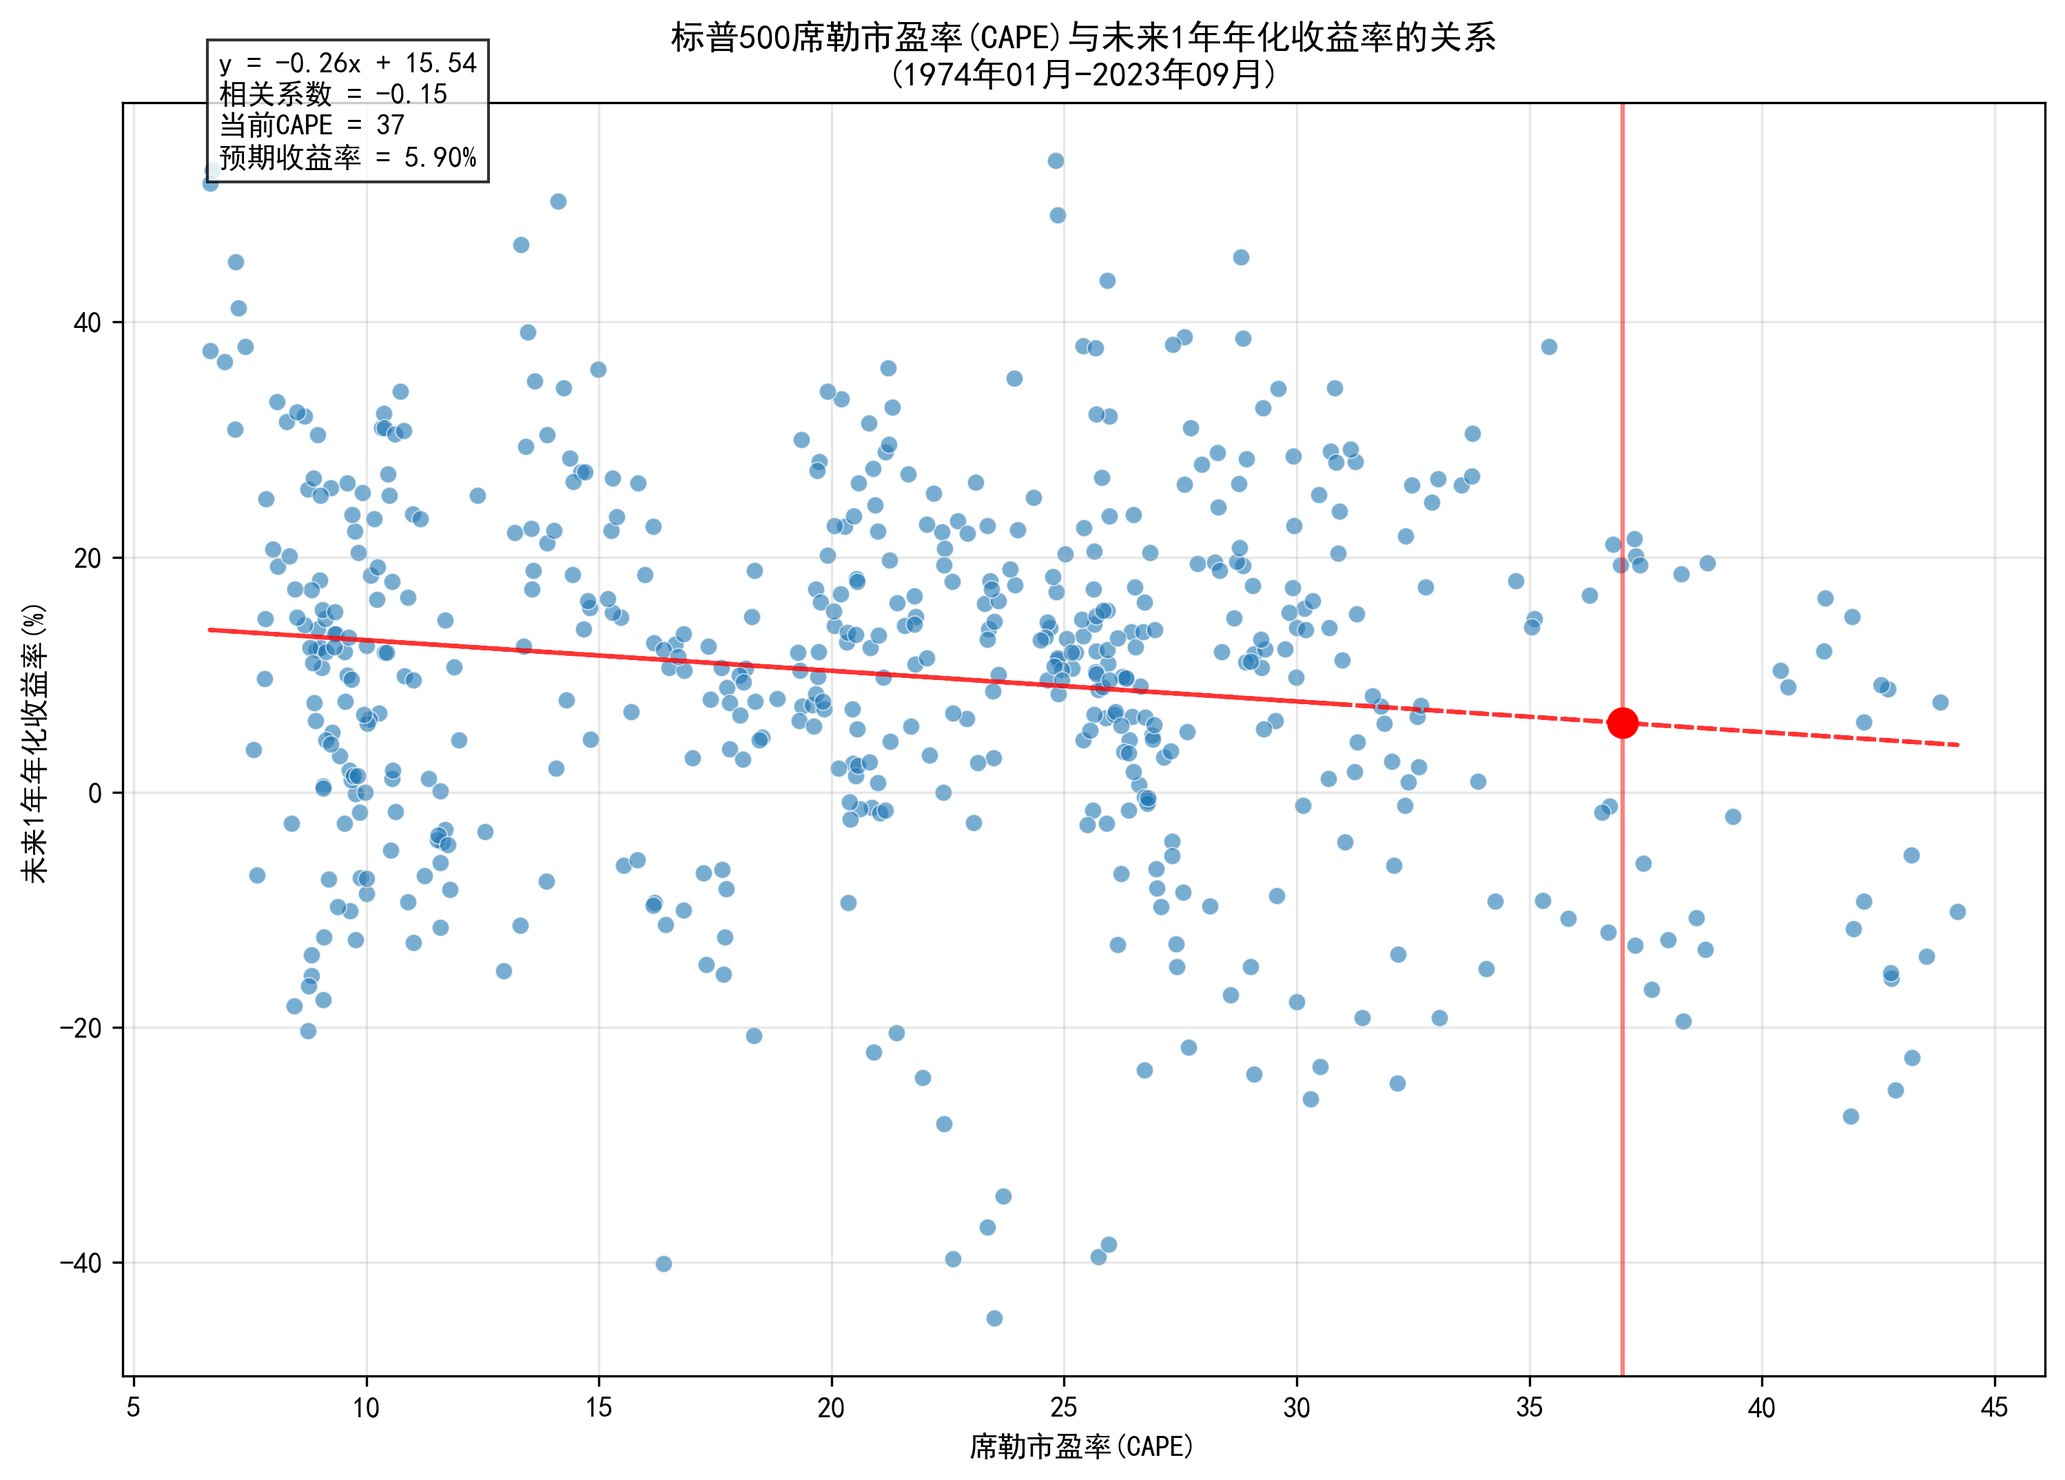
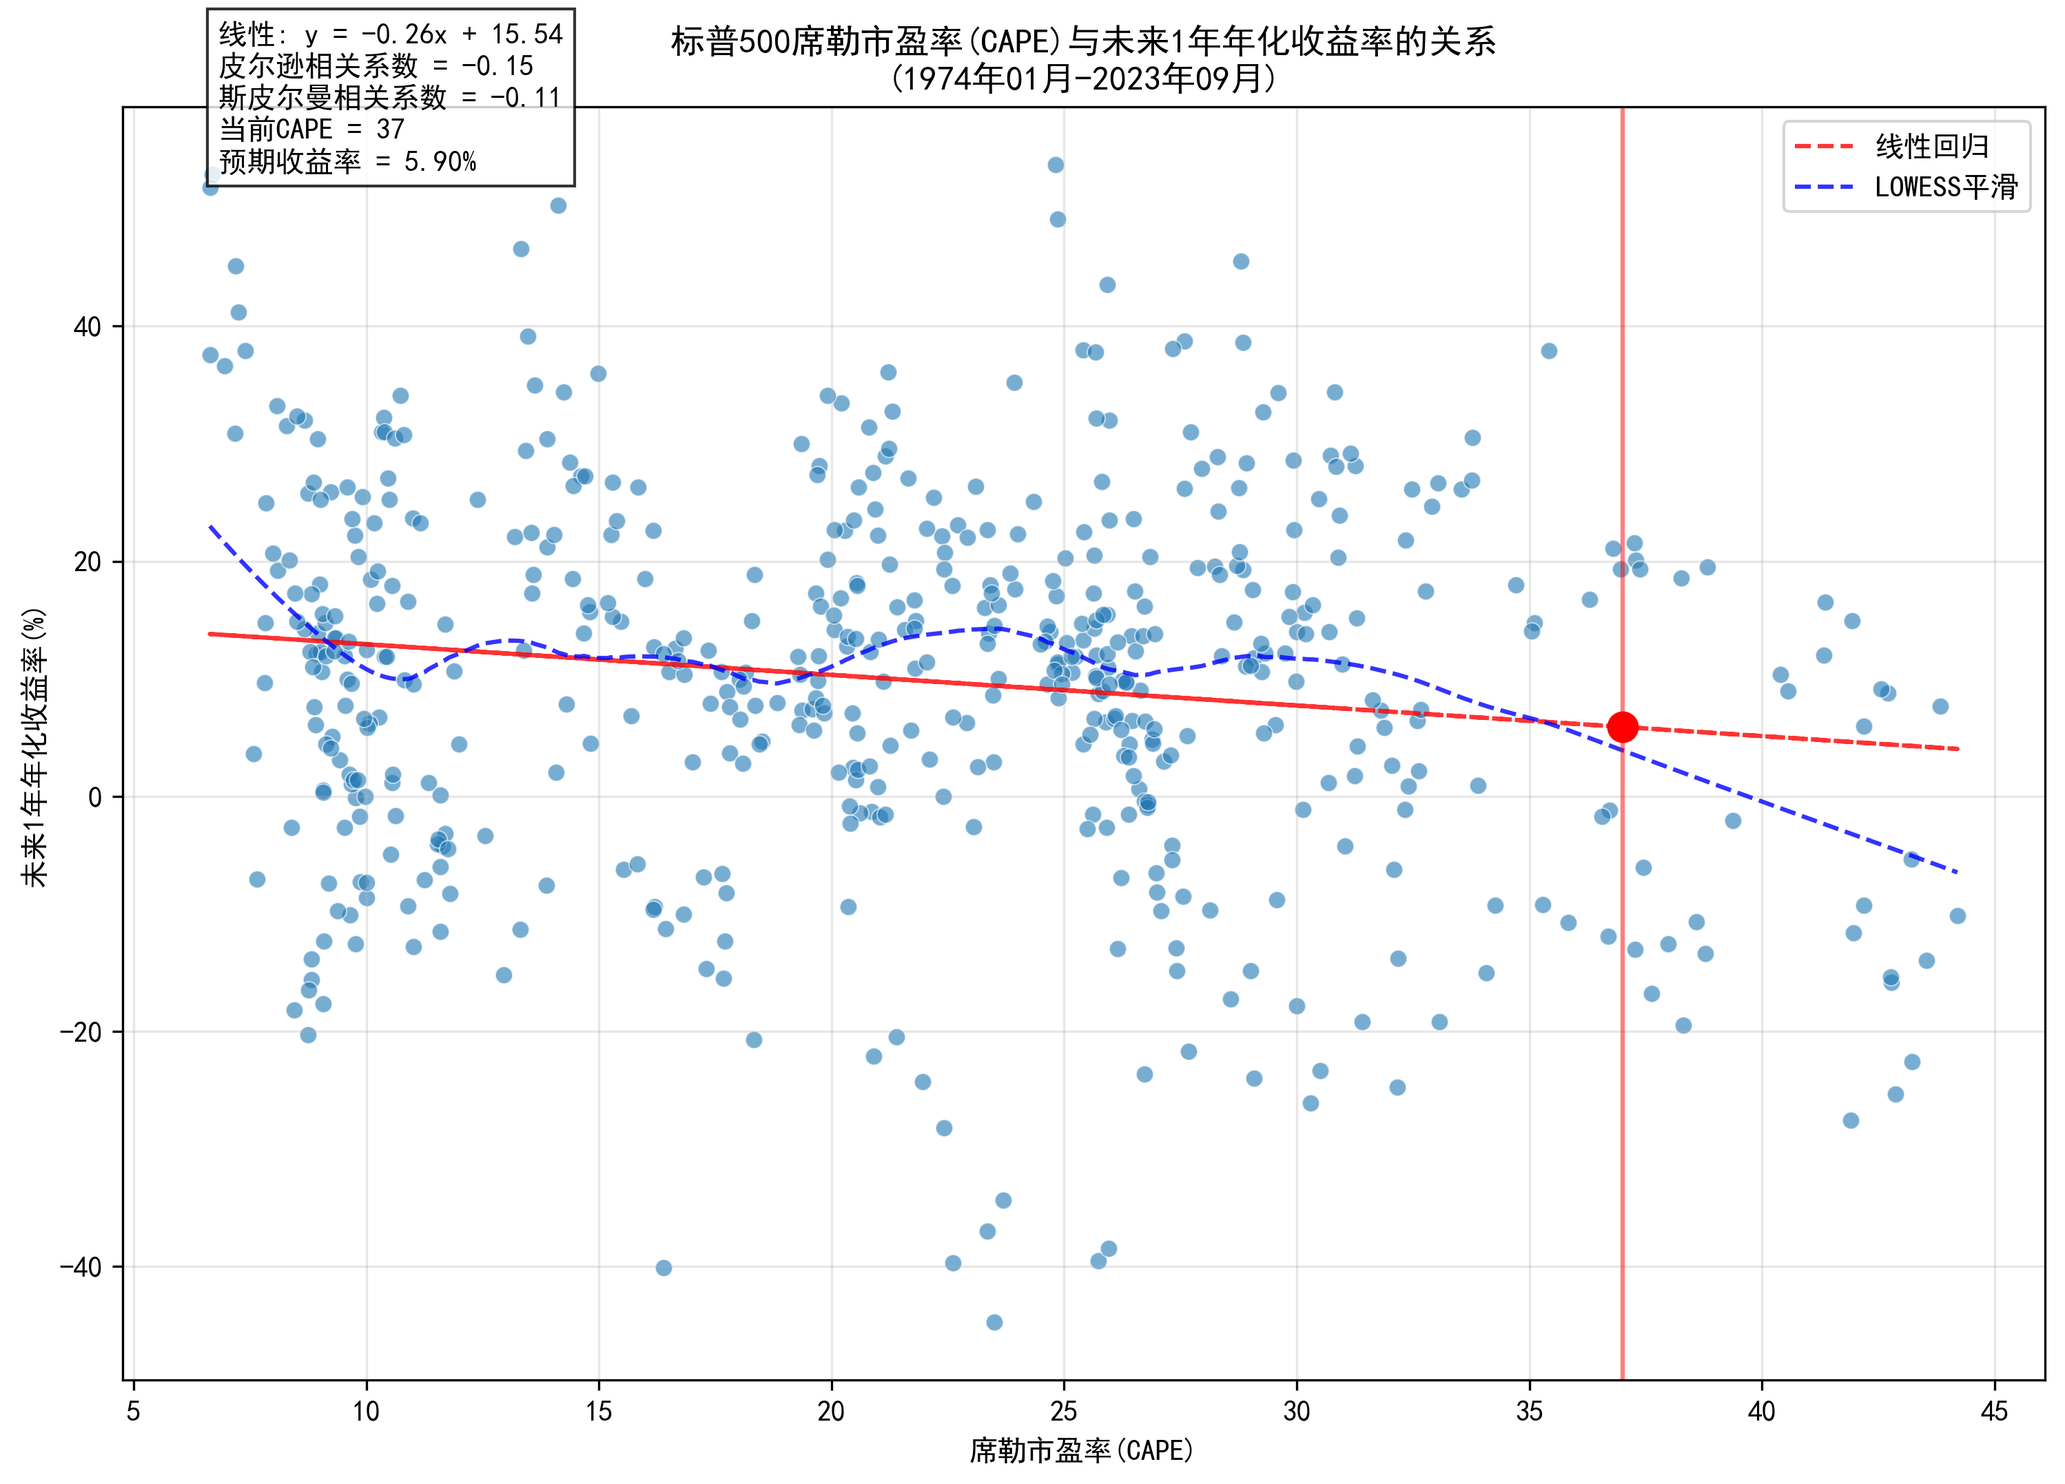
Update other models

diff --git a/sp500_cape_analysis/sp500_cape_returns.py b/sp500_cape_analysis/sp500_cape_returns.py
@@ -5,6 +5,7 @@ import matplotlib.pyplot as plt
 import seaborn as sns
 import requests
 import scipy.stats as stats
+from statsmodels.nonparametric.smoothers_lowess import lowess
 import os
 
 def get_sp500_data():
@@ -82,17 +83,23 @@ def calculate_returns(prices, years=10):
     return returns * 100  # 转换为百分比
 
 def create_scatter_plot(combined_data, years, current_cape=37):
-    """创建散点图和趋势线"""
+    """创建散点图和拟合线"""
     plt.figure(figsize=(12, 8))
     sns.scatterplot(data=combined_data, x='CAPE', y=f'{years}Y_Returns', alpha=0.6)
     
-    # 添加趋势线
+    # 计算皮尔逊和斯皮尔曼相关系数
+    pearson_corr = combined_data['CAPE'].corr(combined_data[f'{years}Y_Returns'])
+    spearman_corr = combined_data['CAPE'].corr(combined_data[f'{years}Y_Returns'], method='spearman')
+    
+    # 线性回归
     z = np.polyfit(combined_data['CAPE'], combined_data[f'{years}Y_Returns'], 1)
     p = np.poly1d(z)
-    plt.plot(combined_data['CAPE'], p(combined_data['CAPE']), "r--", alpha=0.8)
+    plt.plot(combined_data['CAPE'], p(combined_data['CAPE']), "r--", alpha=0.8, label='线性回归')
     
-    # 计算相关系数
-    correlation = combined_data['CAPE'].corr(combined_data[f'{years}Y_Returns'])
+    # LOWESS平滑
+    lowess_result = lowess(combined_data[f'{years}Y_Returns'], combined_data['CAPE'], 
+                          frac=0.3, it=3, return_sorted=True)
+    plt.plot(lowess_result[:, 0], lowess_result[:, 1], 'b--', alpha=0.8, label='LOWESS平滑')
     
     # 添加当前CAPE的竖线
     plt.axvline(x=current_cape, color='r', linestyle='-', alpha=0.5)
@@ -100,9 +107,10 @@ def create_scatter_plot(combined_data, years, current_cape=37):
     plt.plot([current_cape], [predicted_return], 'ro', markersize=10)
     
     # 在图表上添加信息
-    equation = f'y = {z[0]:.2f}x + {z[1]:.2f}'
-    correlation_text = f'相关系数 = {correlation:.2f}'
+    equation = f'线性: y = {z[0]:.2f}x + {z[1]:.2f}'
+    correlation_text = f'皮尔逊相关系数 = {pearson_corr:.2f}\n斯皮尔曼相关系数 = {spearman_corr:.2f}'
     current_cape_text = f'当前CAPE = {current_cape}\n预期收益率 = {predicted_return:.2f}%'
+    
     plt.text(0.05, 0.95, equation + '\n' + correlation_text + '\n' + current_cape_text,
              transform=plt.gca().transAxes, 
              bbox=dict(facecolor='white', alpha=0.8))
@@ -113,6 +121,9 @@ def create_scatter_plot(combined_data, years, current_cape=37):
     plt.xlabel('席勒市盈率(CAPE)')
     plt.ylabel(f'未来{years}年年化收益率(%)')
     
+    # 添加图例
+    plt.legend()
+    
     # 添加网格
     plt.grid(True, alpha=0.3)
     
@@ -120,7 +131,11 @@ def create_scatter_plot(combined_data, years, current_cape=37):
     plt.savefig(f'sp500_cape_returns_{years}y.png', dpi=300, bbox_inches='tight')
     plt.close()
     
-    return correlation, z
+    return {
+        'pearson': pearson_corr,
+        'spearman': spearman_corr,
+        'linear': z
+    }
 
 def generate_report_data(combined_data_by_period, correlations, z_values):
     """生成报告所需的所有数据"""
@@ -133,13 +148,18 @@ def generate_report_data(combined_data_by_period, correlations, z_values):
     # 计算各期限的R²值和预期收益率
     r_squared_values = {}
     predicted_returns = {}
+    
     for years in [1, 3, 5, 10, 20, 30]:
         period_data = combined_data_by_period[years]
-        y_pred = np.polyval(z_values[years], period_data['CAPE'])
+        
+        # 线性回归的R²
+        y_pred = np.polyval(z_values[years]['linear'], period_data['CAPE'])
         y_actual = period_data[f'{years}Y_Returns']
         r_squared = 1 - (np.sum((y_actual - y_pred) ** 2) / np.sum((y_actual - y_actual.mean()) ** 2))
         r_squared_values[years] = r_squared
-        predicted_returns[years] = z_values[years][0] * current_cape + z_values[years][1]
+        
+        # 计算预期收益率
+        predicted_returns[years] = np.polyval(z_values[years]['linear'], current_cape)
     
     # 计算CAPE的百分位数
     cape_percentile = stats.percentileofscore(data_1y['CAPE'], current_cape)
@@ -154,40 +174,34 @@ def generate_report_data(combined_data_by_period, correlations, z_values):
         returns_data[f'returns_when_cape_high_{years}y'] = returns_when_high
         returns_data[f'returns_diff_{years}y'] = returns_when_low - returns_when_high
     
-    return {
-        'correlation_1y': correlations[1],
-        'correlation_3y': correlations[3],
-        'correlation_5y': correlations[5],
-        'correlation_10y': correlations[10],
-        'correlation_20y': correlations[20],
-        'correlation_30y': correlations[30],
-        'equation_1y': f'y = {z_values[1][0]:.2f}x + {z_values[1][1]:.2f}',
-        'equation_3y': f'y = {z_values[3][0]:.2f}x + {z_values[3][1]:.2f}',
-        'equation_5y': f'y = {z_values[5][0]:.2f}x + {z_values[5][1]:.2f}',
-        'equation_10y': f'y = {z_values[10][0]:.2f}x + {z_values[10][1]:.2f}',
-        'equation_20y': f'y = {z_values[20][0]:.2f}x + {z_values[20][1]:.2f}',
-        'equation_30y': f'y = {z_values[30][0]:.2f}x + {z_values[30][1]:.2f}',
-        'r_squared_1y': r_squared_values[1],
-        'r_squared_3y': r_squared_values[3],
-        'r_squared_5y': r_squared_values[5],
-        'r_squared_10y': r_squared_values[10],
-        'r_squared_20y': r_squared_values[20],
-        'r_squared_30y': r_squared_values[30],
-        'predicted_return_1y': predicted_returns[1],
-        'predicted_return_3y': predicted_returns[3],
-        'predicted_return_5y': predicted_returns[5],
-        'predicted_return_10y': predicted_returns[10],
-        'predicted_return_20y': predicted_returns[20],
-        'predicted_return_30y': predicted_returns[30],
+    # 准备返回数据
+    report_data = {
         'cape_percentile': cape_percentile,
         'cape_min': data_1y['CAPE'].min(),
         'cape_max': data_1y['CAPE'].max(),
         'cape_mean': data_1y['CAPE'].mean(),
         'cape_median': data_1y['CAPE'].median(),
         'cape_low': cape_low,
-        'cape_high': cape_high,
-        **returns_data  # 包含所有收益率相关的数据
+        'cape_high': cape_high
     }
+    
+    # 添加各期限的相关系数和回归方程
+    for years in [1, 3, 5, 10, 20, 30]:
+        report_data[f'correlation_pearson_{years}y'] = correlations[years]['pearson']
+        report_data[f'correlation_spearman_{years}y'] = correlations[years]['spearman']
+        
+        # 线性回归方程
+        linear_coef = z_values[years]['linear']
+        report_data[f'equation_linear_{years}y'] = f'y = {linear_coef[0]:.2f}x + {linear_coef[1]:.2f}'
+        
+        # R²值和预期收益率
+        report_data[f'r_squared_{years}y'] = r_squared_values[years]
+        report_data[f'predicted_return_{years}y'] = predicted_returns[years]
+    
+    # 添加收益率数据
+    report_data.update(returns_data)
+    
+    return report_data
 
 def main():
     # 设置中文字体
@@ -229,15 +243,20 @@ def main():
             print(f"  合并后数据范围：{period_data.index.min().strftime('%Y年%m月')} 至 {period_data.index.max().strftime('%Y年%m月')}")
             print(f"  CAPE范围：{period_data['CAPE'].min():.1f} - {period_data['CAPE'].max():.1f}")
             
-            # 创建图表并获取相关系数
-            correlation, z = create_scatter_plot(period_data, years)
-            correlations[years] = correlation
-            z_values[years] = z
-            print(f"  相关系数：{correlation:.3f}")
+            # 创建图表并获取相关系数和回归系数
+            results = create_scatter_plot(period_data, years)
+            correlations[years] = {
+                'pearson': results['pearson'],
+                'spearman': results['spearman']
+            }
+            z_values[years] = {
+                'linear': results['linear']
+            }
+            print(f"  皮尔逊相关系数：{results['pearson']:.3f}")
+            print(f"  斯皮尔曼相关系数：{results['spearman']:.3f}")
         
         # 生成报告数据
         print("\n正在生成报告...")
-        # 使用最短期限（1年期）的数据作为基础数据
         report_data = generate_report_data(combined_data_by_period, correlations, z_values)
         
         # 添加各期限的数据范围信息

diff --git a/sp500_cape_analysis/report_template.md b/sp500_cape_analysis/report_template.md
@@ -21,40 +21,46 @@
 ## 各期限CAPE与收益率相关性分析
 
 ### 1年期（{period_1y_start} - {period_1y_end}）
-- 相关系数：{correlation_1y:.2f}
-- 回归方程：{equation_1y}
+- 皮尔逊相关系数：{correlation_pearson_1y:.2f}
+- 斯皮尔曼相关系数：{correlation_spearman_1y:.2f}
+- 线性回归方程：{equation_linear_1y}
 - R²值：{r_squared_1y:.2f}
-- 当前CAPE对应的预期收益率：{predicted_return_1y:.1f}%
+- 预期收益率：{predicted_return_1y:.1f}%
 
 ### 3年期（{period_3y_start} - {period_3y_end}）
-- 相关系数：{correlation_3y:.2f}
-- 回归方程：{equation_3y}
+- 皮尔逊相关系数：{correlation_pearson_3y:.2f}
+- 斯皮尔曼相关系数：{correlation_spearman_3y:.2f}
+- 线性回归方程：{equation_linear_3y}
 - R²值：{r_squared_3y:.2f}
-- 当前CAPE对应的预期收益率：{predicted_return_3y:.1f}%
+- 预期收益率：{predicted_return_3y:.1f}%
 
 ### 5年期（{period_5y_start} - {period_5y_end}）
-- 相关系数：{correlation_5y:.2f}
-- 回归方程：{equation_5y}
+- 皮尔逊相关系数：{correlation_pearson_5y:.2f}
+- 斯皮尔曼相关系数：{correlation_spearman_5y:.2f}
+- 线性回归方程：{equation_linear_5y}
 - R²值：{r_squared_5y:.2f}
-- 当前CAPE对应的预期收益率：{predicted_return_5y:.1f}%
+- 预期收益率：{predicted_return_5y:.1f}%
 
 ### 10年期（{period_10y_start} - {period_10y_end}）
-- 相关系数：{correlation_10y:.2f}
-- 回归方程：{equation_10y}
+- 皮尔逊相关系数：{correlation_pearson_10y:.2f}
+- 斯皮尔曼相关系数：{correlation_spearman_10y:.2f}
+- 线性回归方程：{equation_linear_10y}
 - R²值：{r_squared_10y:.2f}
-- 当前CAPE对应的预期收益率：{predicted_return_10y:.1f}%
+- 预期收益率：{predicted_return_10y:.1f}%
 
 ### 20年期（{period_20y_start} - {period_20y_end}）
-- 相关系数：{correlation_20y:.2f}
-- 回归方程：{equation_20y}
+- 皮尔逊相关系数：{correlation_pearson_20y:.2f}
+- 斯皮尔曼相关系数：{correlation_spearman_20y:.2f}
+- 线性回归方程：{equation_linear_20y}
 - R²值：{r_squared_20y:.2f}
-- 当前CAPE对应的预期收益率：{predicted_return_20y:.1f}%
+- 预期收益率：{predicted_return_20y:.1f}%
 
 ### 30年期（{period_30y_start} - {period_30y_end}）
-- 相关系数：{correlation_30y:.2f}
-- 回归方程：{equation_30y}
+- 皮尔逊相关系数：{correlation_pearson_30y:.2f}
+- 斯皮尔曼相关系数：{correlation_spearman_30y:.2f}
+- 线性回归方程：{equation_linear_30y}
 - R²值：{r_squared_30y:.2f}
-- 当前CAPE对应的预期收益率：{predicted_return_30y:.1f}%
+- 预期收益率：{predicted_return_30y:.1f}%
 
 ## CAPE分位与收益率分析
 
@@ -77,10 +83,14 @@
 
 ## 结论
 
-1. CAPE与未来收益率呈现负相关关系，相关性随着时间跨度的增加而增强。
-2. 当前CAPE处于历史较高水平，这可能意味着未来收益率将低于历史平均水平。
-3. 长期（20年和30年）投资的预期收益率波动相对较小，显示出更稳定的风险回报特征。
-4. 低CAPE时期的投资回报普遍优于高CAPE时期，这种差异在各个时间跨度上都很明显。
+1. CAPE与未来收益率的关系在不同时间跨度上表现不同：
+   - 短期（1-3年）：相关性较弱，预测能力有限
+   - 中期（5-10年）：显示出较强的负相关关系
+   - 长期（20-30年）：关系趋于稳定
+2. 斯皮尔曼相关系数与皮尔逊相关系数的差异反映了关系的非线性特征
+3. LOWESS平滑曲线显示了CAPE与收益率之间的局部趋势
+4. 当前CAPE处于历史较高水平，预示着未来收益率可能低于历史平均水平
+5. 低CAPE时期的投资回报普遍优于高CAPE时期，这种差异在各个时间跨度上都很明显
 
 ## 数据可视化
 

diff --git a/sp500_cape_analysis/analysis_report.md b/sp500_cape_analysis/analysis_report.md
@@ -21,40 +21,46 @@
 ## 各期限CAPE与收益率相关性分析
 
 ### 1年期（1974年01月 - 2023年09月）
-- 相关系数：-0.15
-- 回归方程：y = -0.26x + 15.54
+- 皮尔逊相关系数：-0.15
+- 斯皮尔曼相关系数：-0.11
+- 线性回归方程：y = -0.26x + 15.54
 - R²值：0.02
-- 当前CAPE对应的预期收益率：5.9%
+- 预期收益率：5.9%
 
 ### 3年期（1974年01月 - 2022年01月）
-- 相关系数：-0.31
-- 回归方程：y = -0.30x + 15.20
+- 皮尔逊相关系数：-0.31
+- 斯皮尔曼相关系数：-0.22
+- 线性回归方程：y = -0.30x + 15.20
 - R²值：0.10
-- 当前CAPE对应的预期收益率：4.2%
+- 预期收益率：4.2%
 
 ### 5年期（1974年01月 - 2020年01月）
-- 相关系数：-0.44
-- 回归方程：y = -0.34x + 15.90
+- 皮尔逊相关系数：-0.44
+- 斯皮尔曼相关系数：-0.38
+- 线性回归方程：y = -0.34x + 15.90
 - R²值：0.20
-- 当前CAPE对应的预期收益率：3.3%
+- 预期收益率：3.3%
 
 ### 10年期（1974年01月 - 2015年01月）
-- 相关系数：-0.78
-- 回归方程：y = -0.39x + 16.37
+- 皮尔逊相关系数：-0.78
+- 斯皮尔曼相关系数：-0.69
+- 线性回归方程：y = -0.39x + 16.37
 - R²值：0.61
-- 当前CAPE对应的预期收益率：2.0%
+- 预期收益率：2.0%
 
 ### 20年期（1974年01月 - 2005年01月）
-- 相关系数：-0.82
-- 回归方程：y = -0.22x + 12.38
+- 皮尔逊相关系数：-0.82
+- 斯皮尔曼相关系数：-0.87
+- 线性回归方程：y = -0.22x + 12.38
 - R²值：0.67
-- 当前CAPE对应的预期收益率：4.3%
+- 预期收益率：4.3%
 
 ### 30年期（1974年01月 - 1995年01月）
-- 相关系数：-0.32
-- 回归方程：y = -0.05x + 8.90
+- 皮尔逊相关系数：-0.32
+- 斯皮尔曼相关系数：-0.24
+- 线性回归方程：y = -0.05x + 8.90
 - R²值：0.10
-- 当前CAPE对应的预期收益率：7.1%
+- 预期收益率：7.1%
 
 ## CAPE分位与收益率分析
 
@@ -77,10 +83,14 @@
 
 ## 结论
 
-1. CAPE与未来收益率呈现负相关关系，相关性随着时间跨度的增加而增强。
-2. 当前CAPE处于历史较高水平，这可能意味着未来收益率将低于历史平均水平。
-3. 长期（20年和30年）投资的预期收益率波动相对较小，显示出更稳定的风险回报特征。
-4. 低CAPE时期的投资回报普遍优于高CAPE时期，这种差异在各个时间跨度上都很明显。
+1. CAPE与未来收益率的关系在不同时间跨度上表现不同：
+   - 短期（1-3年）：相关性较弱，预测能力有限
+   - 中期（5-10年）：显示出较强的负相关关系
+   - 长期（20-30年）：关系趋于稳定
+2. 斯皮尔曼相关系数与皮尔逊相关系数的差异反映了关系的非线性特征
+3. LOWESS平滑曲线显示了CAPE与收益率之间的局部趋势
+4. 当前CAPE处于历史较高水平，预示着未来收益率可能低于历史平均水平
+5. 低CAPE时期的投资回报普遍优于高CAPE时期，这种差异在各个时间跨度上都很明显
 
 ## 数据可视化
 
